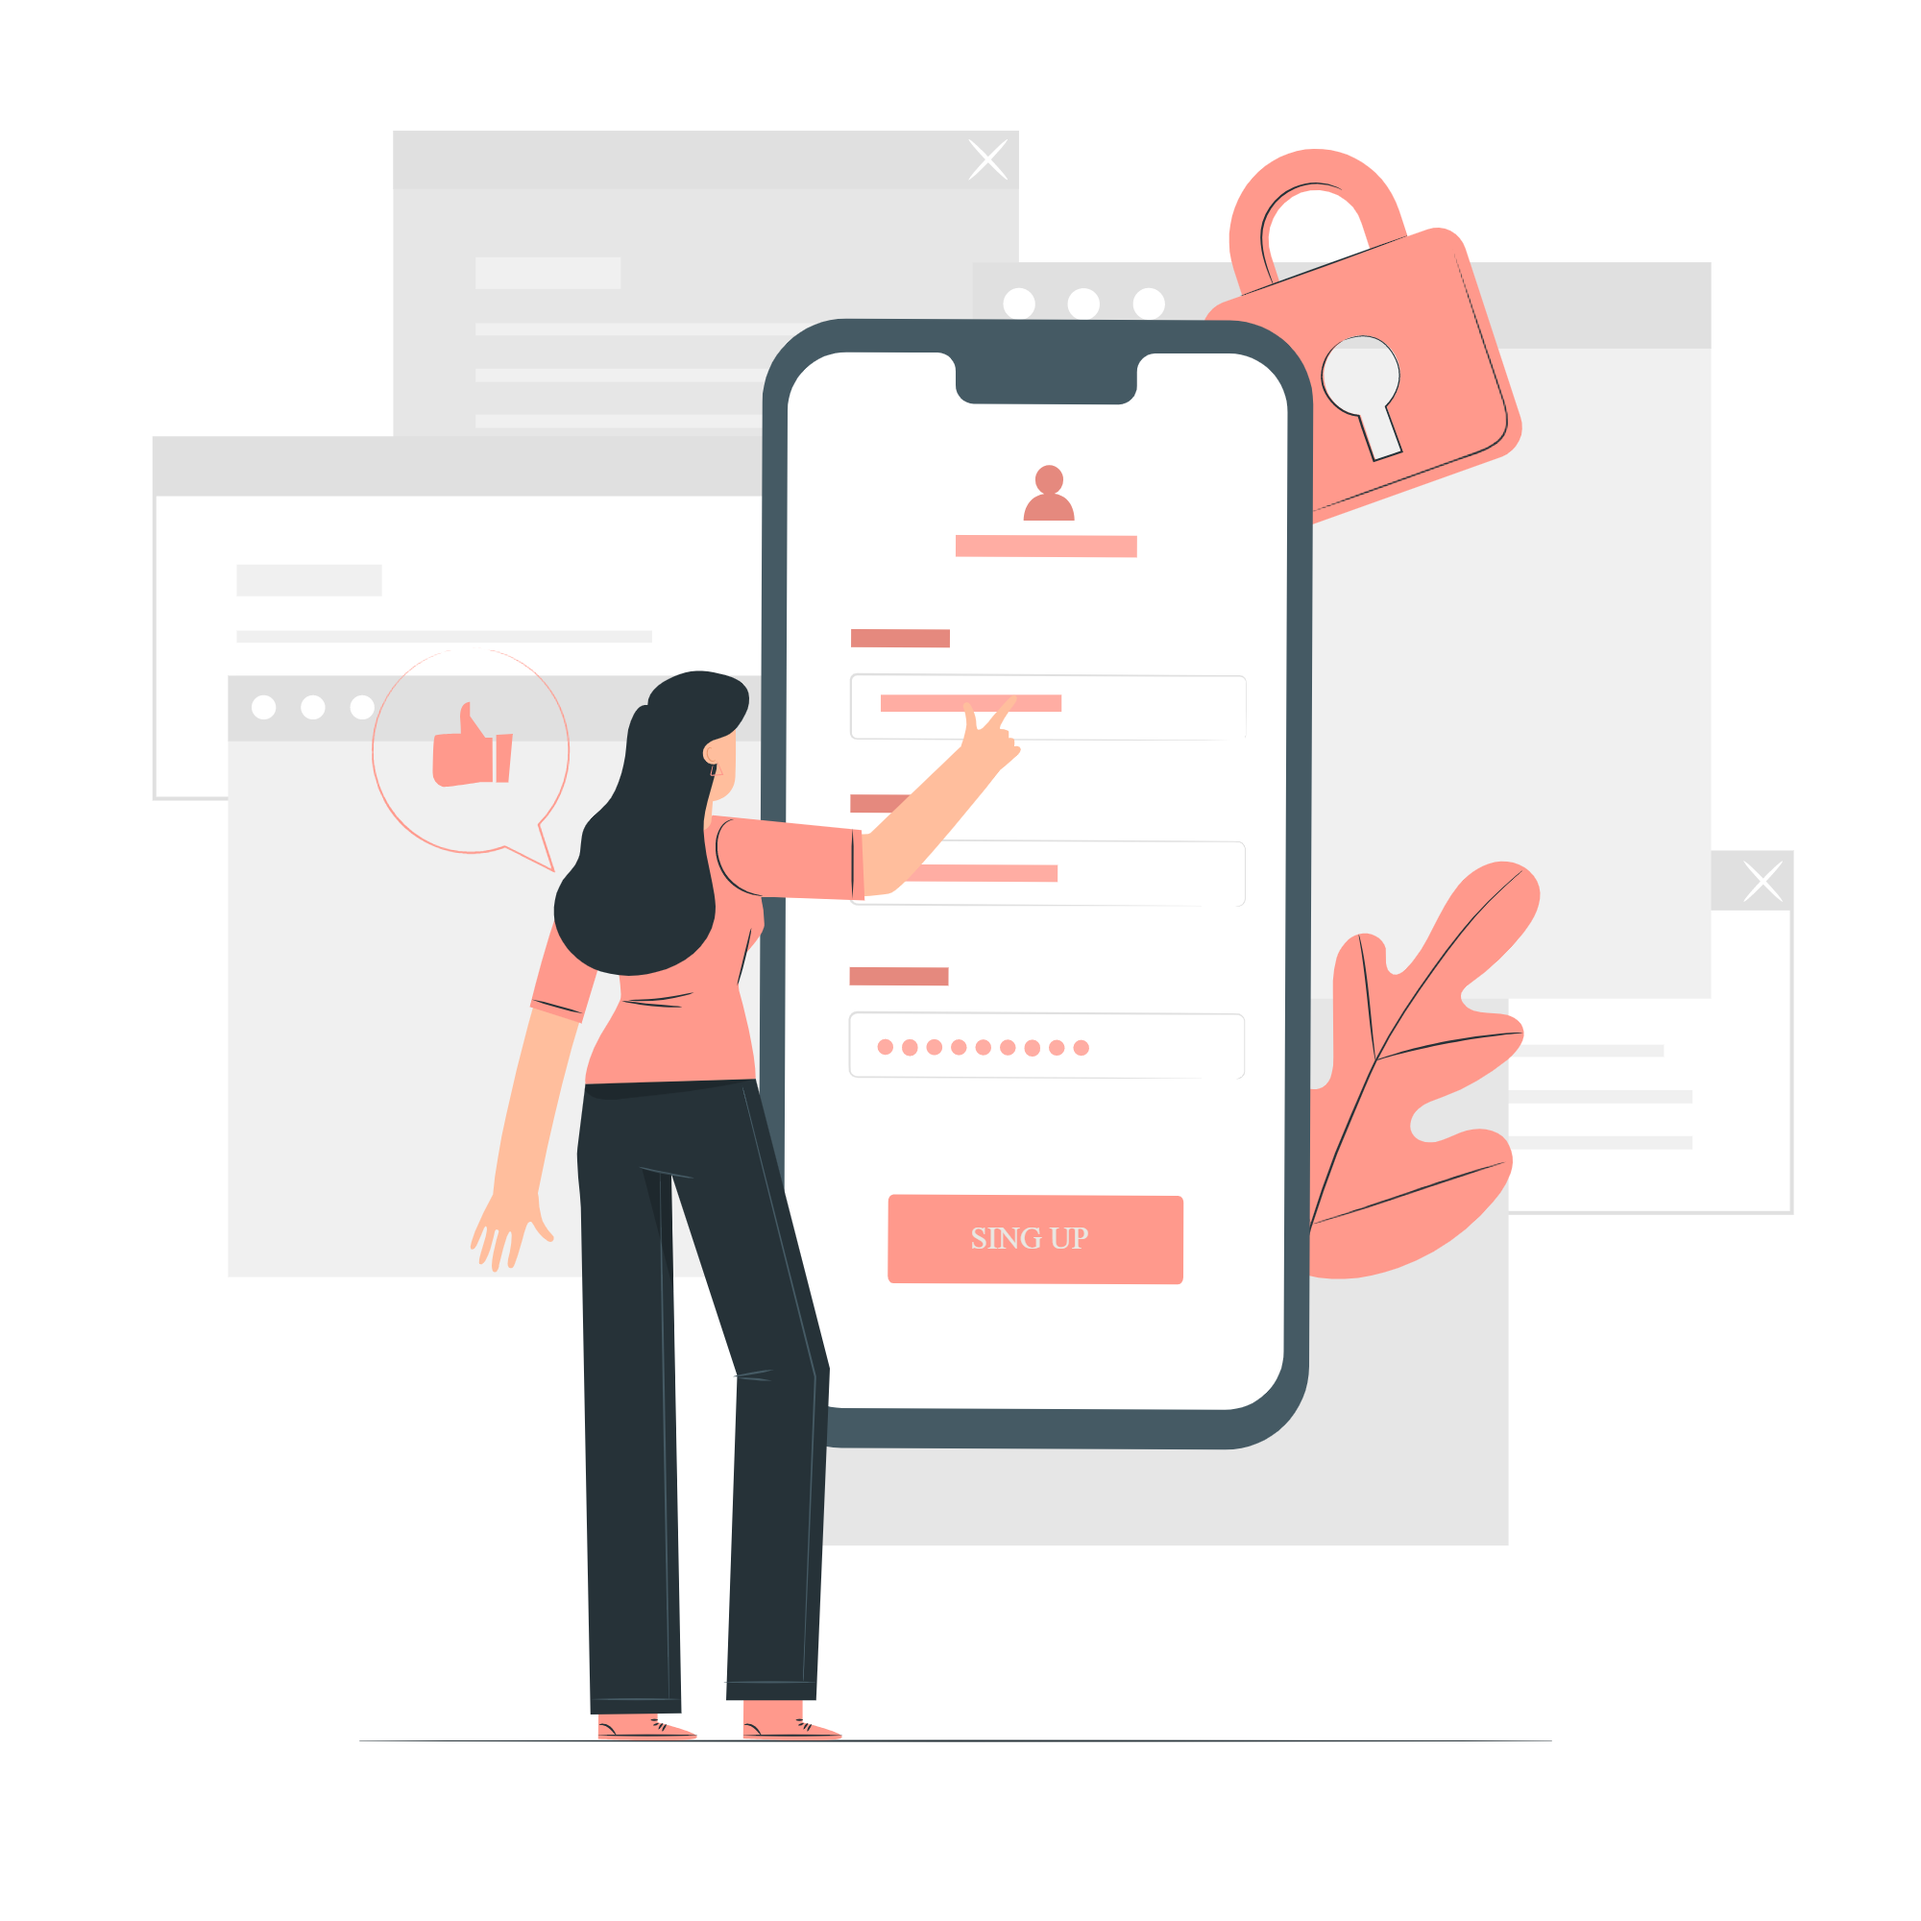
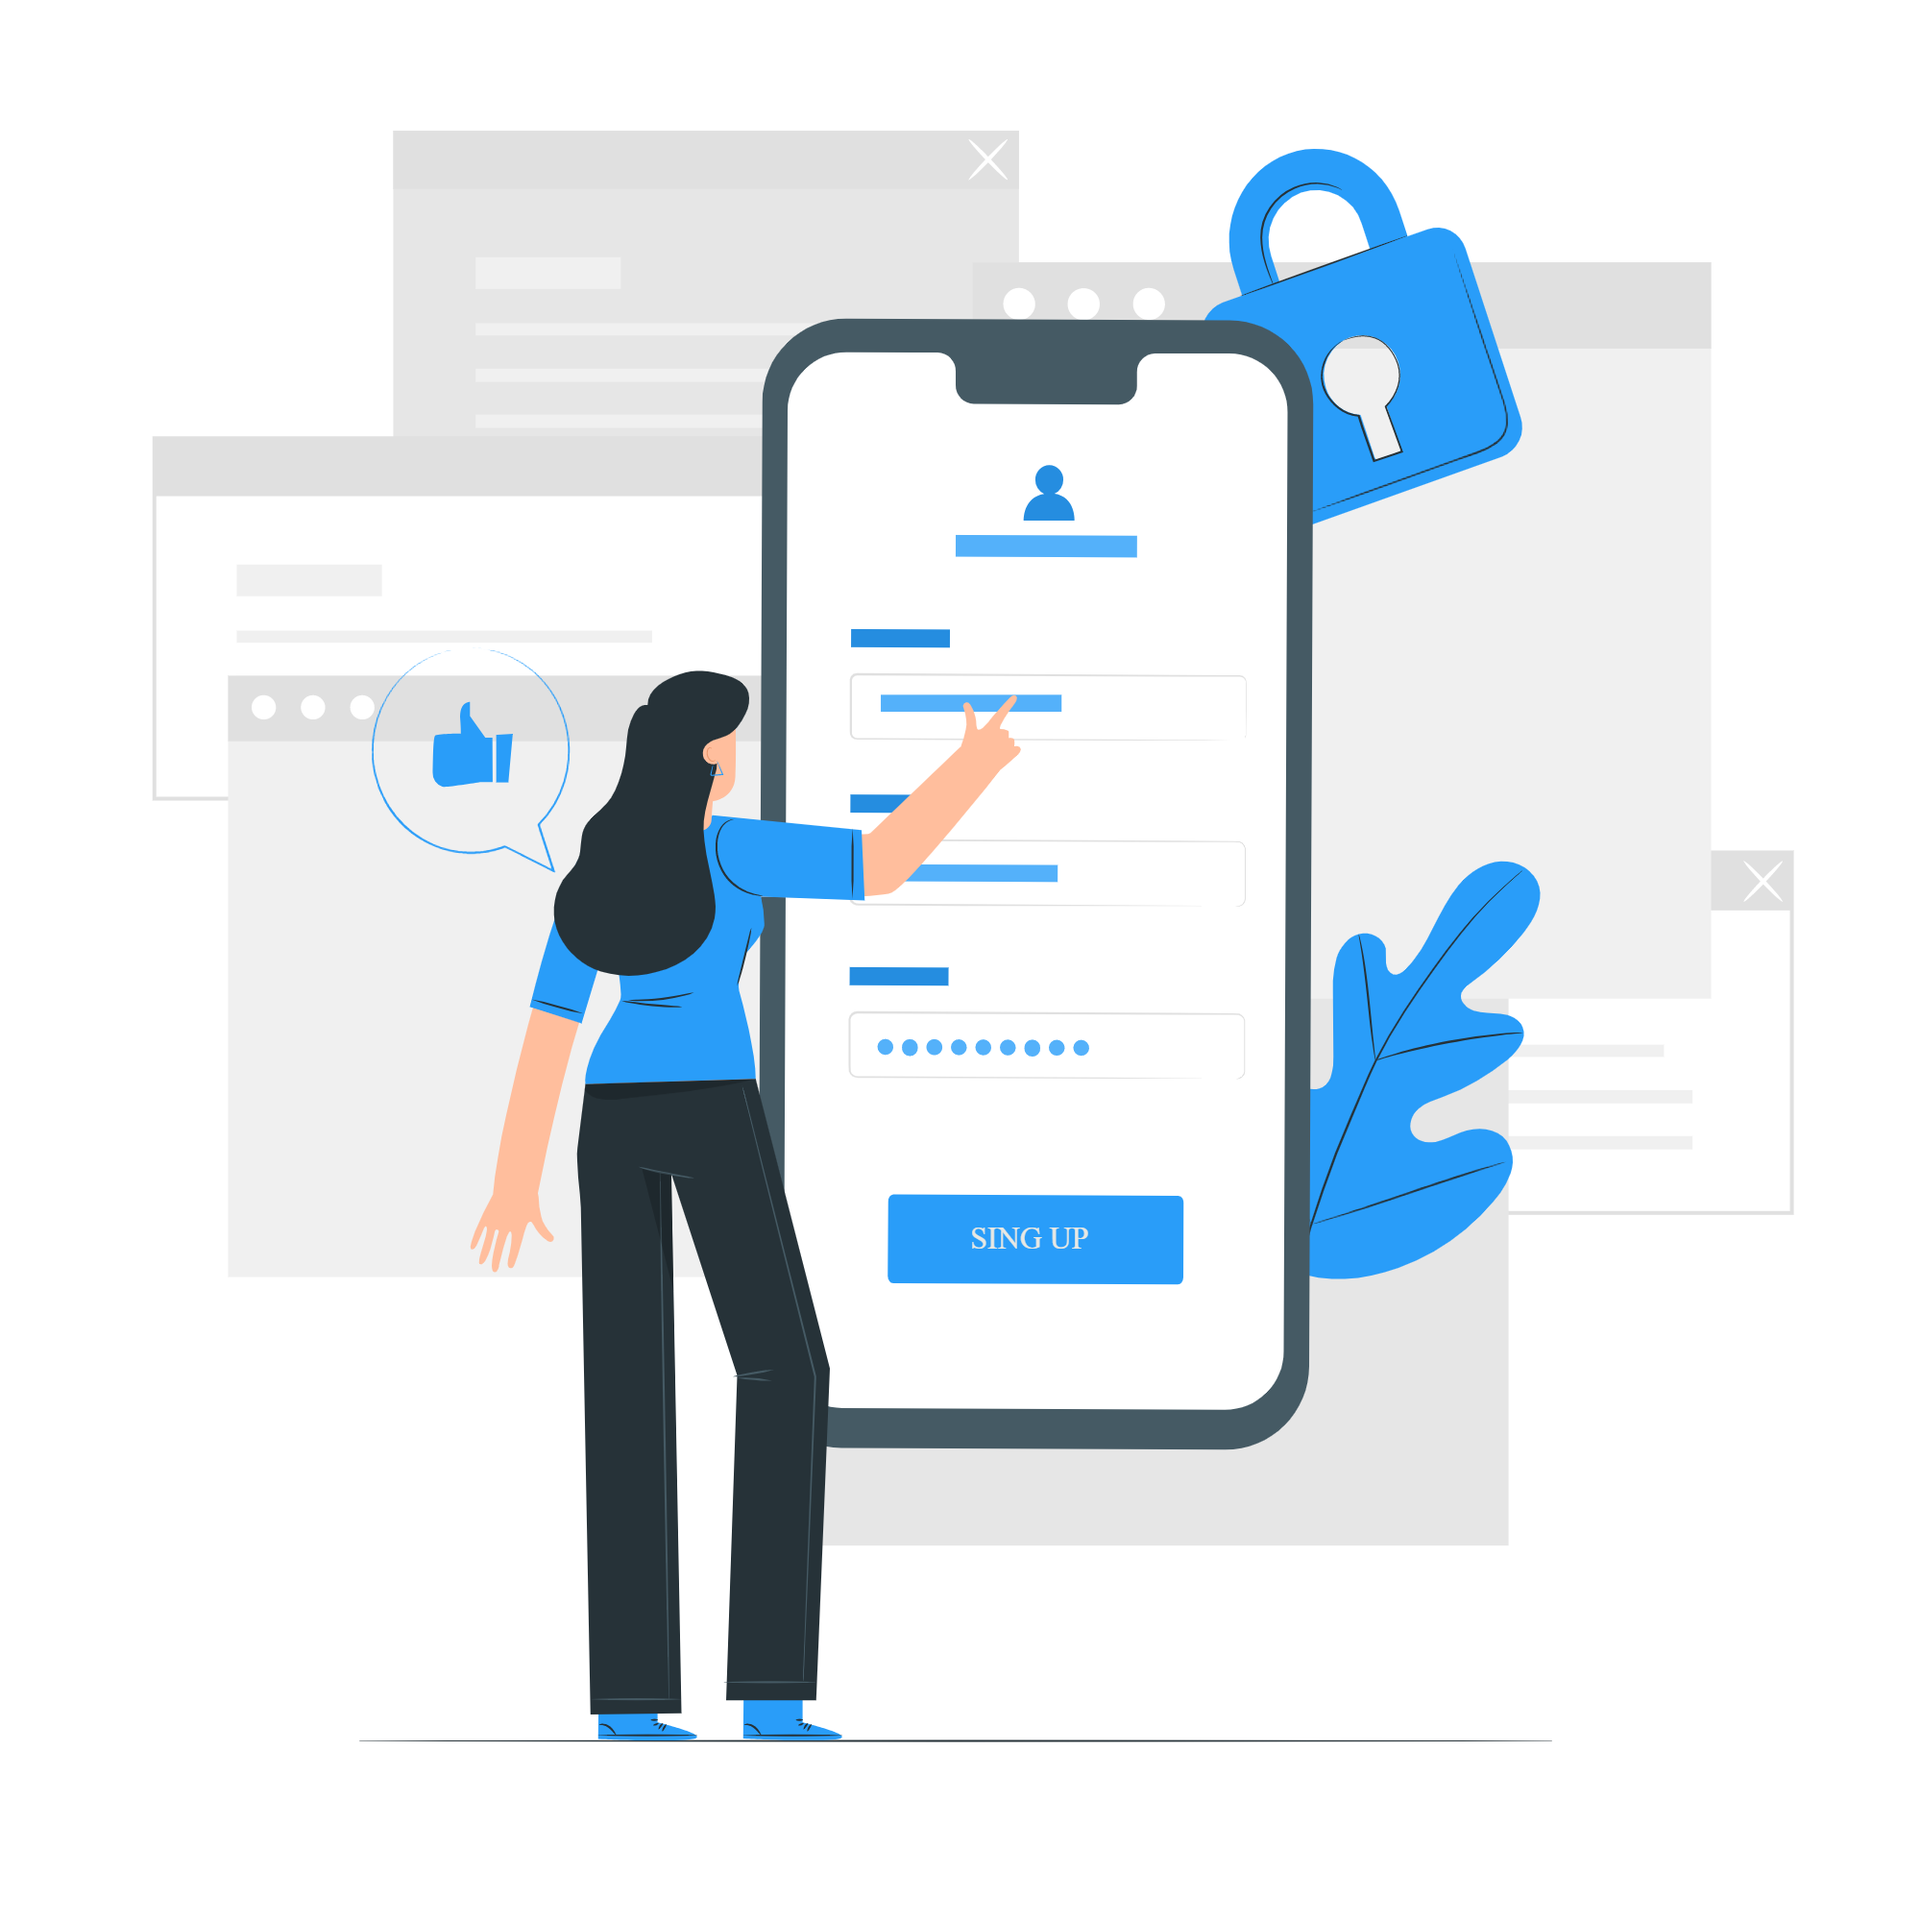
feat: added login page

diff --git a/client/src/views/Login/Login.js b/client/src/views/Login/Login.js
@@ -1,8 +1,97 @@
-import React from 'react'
+import React, { useState, useEffect } from 'react';
+import axios from 'axios';
+import swal from "sweetalert";
+import headerImage from './img/login.png';
+
+import { currentUser } from './../../util/currentUser'
+import "./Login.css"
 
 function Login() {
+  const [email, setEmail] = useState("");
+  const [password, setPassword] = useState("");
+
+  useEffect(() => {
+    if (currentUser) {
+      window.location.href = "/"
+    }
+  }, [])
+
+  async function checkLogin() {
+    const response = await axios.post('/login', {
+      email: email,
+      password: password
+    })
+
+    console.log(response.data)
+    if (response.data.success) {
+      await swal({
+        title: "✅",
+        text: "Login Successfully !!",
+        icon: "success",
+        button: "Ok!",
+      })
+      localStorage.setItem('currentUser', JSON.stringify(response.data.data));
+      window.location.href = "/"
+
+    }
+    else {
+      await swal({
+        title: "😥",
+        text: response.data.message,
+        icon: "warning",
+        button: "Try Again!"
+      })
+      setEmail("");
+      setPassword("");
+      localStorage.removeItem('currentUser');
+    }
+  }
+
   return (
-    <div>Login</div>
+    <>
+      <div className='container mt-5'>
+        <div className='login-card'>
+          <div className='row'>
+            <h2 className='text-center mt-5'>Login</h2>
+            <div className='col-md-6 mt-3'>
+              <form>
+                <div className="mb-3">
+                  <input
+                    type="email"
+                    className="form-control"
+                    id="email"
+                    placeholder="Email"
+                    value={email} onChange={(e) => { setEmail(e.target.value) }}
+                  />
+                </div>
+                <div className="mb-3">
+                  <input
+                    type="password"
+                    className="form-control"
+                    id="password"
+                    placeholder="Password"
+                    value={password} onChange={(e) => { setPassword(e.target.value) }}
+                  />
+                </div>
+                <button className="login-page-btn w-100 mb-3" type="button" onClick={checkLogin}>
+                  <i className="fa-solid fa-right-to-bracket"></i> Login
+                </button>
+              </form>
+            </div>
+
+            <div className='col-md-6'>
+              <div className='mt-3 image mb-3 '>
+                <img
+                  src={headerImage}
+                  alt=""
+                  className="login-img mx-auto d-block "
+                />
+              </div>
+            </div>
+          </div>
+        </div>
+      </div>
+    </>
   )
 }
 

diff --git a/client/src/views/Login/Login.css b/client/src/views/Login/Login.css
@@ -1,0 +1,26 @@
+.login-card{
+    padding: 20px;
+    margin-top: 85px;
+    border-radius: 10px;
+    display: block;
+    margin-left: auto;
+    margin-right: auto;
+    box-shadow: 5px 5px 10px 2px gray;
+}
+
+.login-img{
+    width: 50%;
+    display: block;
+    margin-left: auto;
+    margin-right: auto;
+}
+
+.login-page-btn{
+    padding: 5px;
+    margin: 3px;
+    width: 120px;
+    border-radius: 30px;
+    border: none;
+    background-color: #299DF9;
+    box-shadow: 0px 3px 1px -2px rgb(0, 0, 0);
+}

diff --git a/client/src/util/loginRequired.js b/client/src/util/loginRequired.js
@@ -1,0 +1,16 @@
+import swal from 'sweetalert'
+
+import { currentUser } from './currentUser'
+
+export async function loginRequired() {
+  if (!currentUser) {
+    await swal({
+      title: "Login Required",
+      text: "Please login to continue",
+      icon: "warning",
+      buttons: true,
+      dangerMode: true,
+    })
+    window.location.href = '/login'
+  }
+}

diff --git a/client/src/views/Signup/Signup.css b/client/src/views/Signup/Signup.css
@@ -23,6 +23,6 @@
     width: 120px;
     border-radius: 30px;
     border: none;
-    background-color: #FF998C;
+    background-color: #299DF9;
     box-shadow: 0px 3px 1px -2px rgb(0, 0, 0);
 }

diff --git a/client/src/util/currentUser.js b/client/src/util/currentUser.js
@@ -1,0 +1,1 @@
+export const currentUser = JSON.parse(localStorage.getItem('currentUser')) || null;
